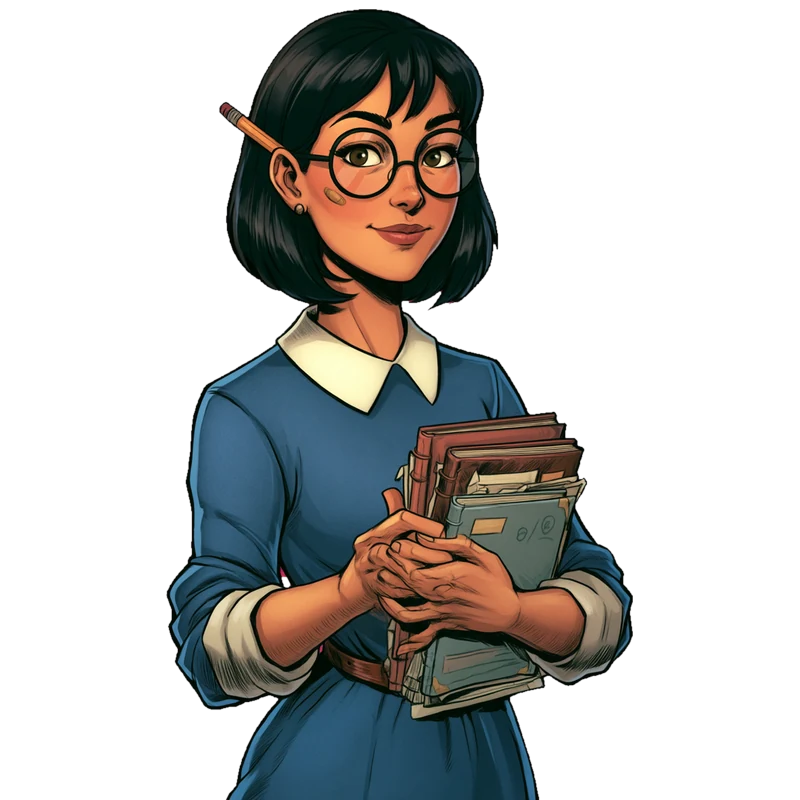
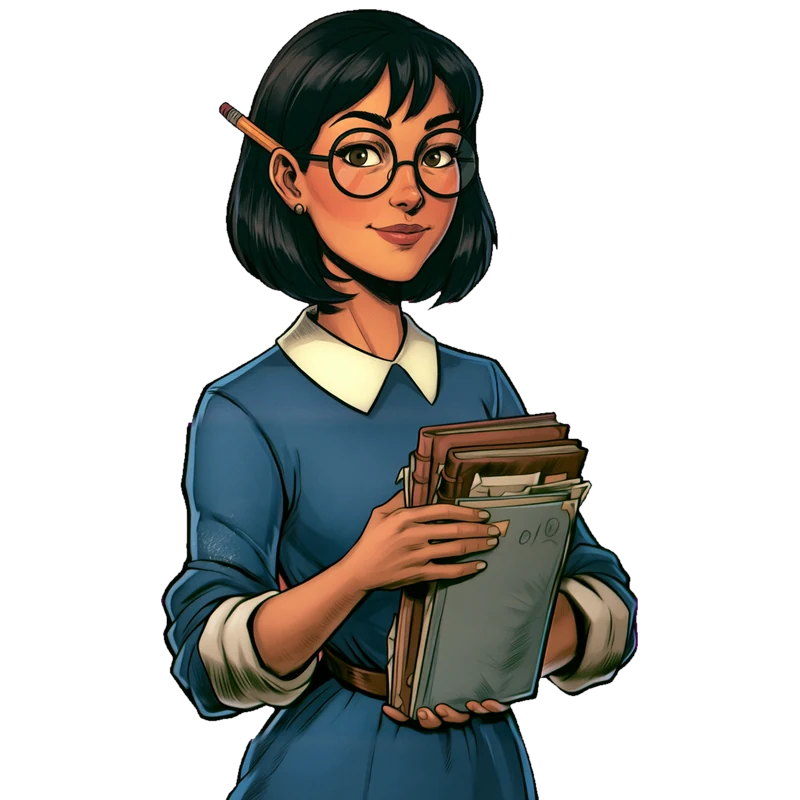
White Rabbit Key: Hana and Lola get proper hands
Hana's and Lola's portraits are the pictures painted elsewhere (imports/codex), and their hands were a tangle:
Hana's fingers interlaced on the exercise books, Lola's shaker hand had no clear thumb. Both are repainted there
now, and fitted back into the originals:

- Hana: one hand flat on the top book, the other under the stack, fingertips showing. Her face is the original
  one, without the plaster on her cheek that made the pencil seem to run on into it; the pencil sits behind her
  ear. The talking and blinking frames are the original ones. The repaint came out yellower than the rest of
  her, so its colours are brought back to the original's.
- Lola: the shaker held round its middle, the other arm resting across her waist. Everything above her
  shoulders, the talking mouth and the blink are the original's; the repainted part is brought back to the
  original's colours, and a few loops of her curls that still held pink background are cleared.

The portrait prompt now asks for simple grips with one thumb and four fingers per hand, never interlaced, and
Hana's description matches her new picture. up bust --from <folder> <names> brings pictures painted elsewhere
in and names them correctly in its report.

diff --git a/assets/i18n/zh/hud.js b/assets/i18n/zh/hud.js
@@ -1,5 +1,6 @@
 /* Simplified Chinese for this page. Keys are the English text; {n} {h} … are placeholders. */
 TauI18n.add({ strings: {
+  "White Rabbit Key: Hana’s and Lola’s portraits have proper hands now. Hana holds her exercise books against her side with one hand flat on top, and her pencil sits behind her ear instead of seeming to run on into her cheek. Lola holds her cocktail shaker in one hand and rests the other arm across her waist.": "白兔岛：Hana 和 Lola 的画像终于有了像样的手。Hana 把练习本抱在身侧，一只手平放在最上面那本上，铅笔也稳稳夹在耳后，不再像是一直戳进脸颊里。Lola 一只手握着调酒壶，另一只手臂搭在腰间。",
   "White Rabbit Key: the islanders talk about the cruise ships now, from three days before a ship comes until the evening it leaves, and each of them sees the ships their own way. Rico announces the ships on Radio Coco, and islanders phone in about them.": "白兔岛：岛民们现在会聊起游轮了，从船到港前三天一直聊到它离港的那个晚上，而且每个人对这些船都有自己的看法。Rico 在 Radio Coco 上预告船期，岛民们也会打电话进来聊这些船。",
   "White Rabbit Key: the cruise ships are painted now, like the island. They come in bow first, turn round at anchor and leave with a wake.": "白兔岛：游轮现在也像岛屿一样采用手绘风格。它们船首向前驶来，在锚地转向，离开时留下航迹。",
   "Proposals page: click any event in “Coming up” for a detail sheet, the same as for a proposal: what happens, why it matters, its timeline with block, time and countdown, where to watch it. The page now updates by itself when a block or vote arrives (every few seconds in the simulation), new news flashes once, and “Rules over time” draws the next events of the simulation’s programme ahead of “now” as dashed ghosts, so you see a change coming before it lands.": "提案页面：点击“即将发生”中的任一事件即可打开详情，与提案相同：会发生什么、为何重要、包含区块、时间和倒计时的时间线，以及在哪里观看。页面现在会在新区块或投票到达时自动更新（模拟中每隔几秒），新消息会闪烁一次，“规则随时间变化”会在“现在”之后用虚线预示模拟日程中的下一个事件，让你在变更发生前就看到它。",

diff --git a/assets/i18n/ja/hud.js b/assets/i18n/ja/hud.js
@@ -1,5 +1,6 @@
 /* Japanese for this page. Keys are the English text; {n} {h} … are placeholders. */
 TauI18n.add({ strings: {
+  "White Rabbit Key: Hana’s and Lola’s portraits have proper hands now. Hana holds her exercise books against her side with one hand flat on top, and her pencil sits behind her ear instead of seeming to run on into her cheek. Lola holds her cocktail shaker in one hand and rests the other arm across her waist.": "ホワイトラビットキー：Hana と Lola の肖像画の手がきちんと描き直されました。Hana は練習帳を脇に抱え、一番上の一冊に片手をそっと置いています。鉛筆は耳の後ろに挟まり、もう頬に突き刺さっているようには見えません。Lola は片手でカクテルシェーカーを持ち、もう片方の腕を腰の前に添えています。",
   "White Rabbit Key: the islanders talk about the cruise ships now, from three days before a ship comes until the evening it leaves, and each of them sees the ships their own way. Rico announces the ships on Radio Coco, and islanders phone in about them.": "ホワイトラビットキー：島の人たちがクルーズ船の話をするようになりました。船が来る三日前から出ていく日の夜まで、それぞれが自分なりの見方で船を語ります。リコは Radio Coco で船を告知し、島民も電話で船の話をしに来ます。",
   "White Rabbit Key: the cruise ships are painted now, like the island. They come in bow first, turn round at anchor and leave with a wake.": "ホワイトラビットキー：クルーズ船も島と同じ手描きの姿になりました。船首を前にして入港し、停泊地で向きを変え、航跡を残して出港します。",
   "# active consensus spec · revision {x1}": "# 有効なコンセンサス仕様 · リビジョン {x1}",

diff --git a/infra/rabbit-art/paint.py b/infra/rabbit-art/paint.py
@@ -667,7 +667,7 @@ BUSTS = {
     "marisol": 'Marisol: runs the Parasol Café on the terrace. Thirties, sturdy. Warm brown skin, black hair in a messy bun stuck through with a pencil, a red scarf, sun-crinkled eyes. Teal shirt with rolled sleeves, a striped apron, a coffee pot in one hand. Direct, friendly grin. Ex-fisherwoman: talks straight, pours strong coffee, still mends nets between orders.',
     "tobias": "Tobias: harbour master at the pier. Sixties, round and proud. Fair, pink-cheeked skin, grey hair parted with a ruler, bushy grey sideburns. Navy captain's cap with gold braid (too big for him), a crisp white uniform shirt with polished brass buttons and a whistle on a chain, a clipboard. Chest puffed out, self-important smile. Loves a ceremony, a rule and a ribbon to cut.",
     "baako": 'Baako: coconut farmer at the Coconut Works. Forties, big and strong. Deep brown skin, short black hair, a short beard, laugh lines. Frayed straw hat pushed back, mustard-yellow work shirt, a coconut in one big hand, a machete-free tool belt with twine. Broad easy smile. Relaxed, generous, measures time in harvests.',
-    "hana": 'Hana: the schoolteacher. Thirties, slim. Golden-tan skin, a sharp black bob, big round glasses, a pencil behind her ear, a chalk smudge on her cheek. Blue blouse with a white collar, a stack of exercise books. Calm, attentive, one eyebrow ready for a question. Patient, precise, can silence a room by lowering her glasses.',
+    "hana": 'Hana: the schoolteacher. Thirties, slim. Golden-tan skin, a sharp black bob, big round glasses, a yellow pencil tucked behind her ear (only its end shows, above the ear). Blue blouse with a white collar, a little chalk dust on one sleeve, a stack of exercise books held against her side, one hand flat on the top book. Calm, attentive, one eyebrow ready for a question. Patient, precise, can silence a room by lowering her glasses.',
     "rico": 'Rico: host of Radio Coco, the island station. Mid thirties, lanky and always moving. Warm brown skin, a huge round afro, a gap-toothed laugh, eyebrows up like he just heard the best news. Big padded studio headphones round his neck with one cable dangling, a microphone held up like a trophy. Loud coral-pink shirt with a white palm-leaf print, unbuttoned at the collar, a shell necklace. Mid-sentence, mouth open, eyes sparkling. The most extroverted person on the island: talks to everyone as if they were live on air.',
     "lola": 'Lola: runs Bar La Ola on the beach. About thirty, strong shoulders. Brown skin, big dark-red curls held back with a bright yellow hibiscus flower, gold hoop earrings, a beauty mark. Cream off-shoulder blouse, a striped bar towel over one shoulder, a cocktail shaker in hand. One eyebrow raised, a teasing half-smile. Knows every secret on the island and tells none of them for free.',
     "sam": "Old Sam: Old Sam, the lighthouse keeper. Seventies, broad and slow. Deep-tanned, wrinkled skin, bald head, a full bushy white beard, kind sleepy eyes under heavy brows. Dark navy knitted fisherman's jumper with a darned elbow, a brass pocket telescope on a cord, an old pipe (unlit) in the corner of his mouth. Gentle, tired smile. Says little, has seen every storm, keeps the light on for everyone.",
@@ -683,12 +683,14 @@ BUSTS = {
 }
 BUST = ("Paint one character for this game, in exactly the style of the picture: its ink line, painted colours, texture "
         "and warm light, as if painted by the same hand for the same adventure game. {who}. A half figure: from the top of "
-        "the head, with a little space above the hair or hat, down to the hips; both arms and hands in the picture, holding "
-        "their things; facing us, turned very slightly, standing upright in the middle. The body runs on out of the bottom "
-        "edge, which cuts straight across the hips: no rounded or faded bottom, no oval, no vignette. Nothing else in the "
-        "picture, on a plain flat {key} ({hex}) background with no shadow, no floor and no frame; no {key} in the "
-        "person's own colours. Mouth closed in a natural expression. Characterful and funny like a classic adventure game "
-        "cast, with real emotion, but never a caricature of anyone's ethnicity, body or age. No text.")
+        "the head, with a little space above the hair or hat, down to the hips; both arms and hands in the picture, "
+        "holding their things in simple grips that read at a glance: each hand one thumb and four fingers, never "
+        "interlaced, the two hands never on top of each other; facing us, turned very slightly, standing upright in the "
+        "middle. The body runs on out of the bottom edge, which cuts straight across the hips: no rounded or faded bottom, "
+        "no oval, no vignette. Nothing else in the picture, on a plain flat {key} ({hex}) background with no shadow, no "
+        "floor and no frame; no {key} in the person's own colours. Mouth closed in a natural expression. Characterful and "
+        "funny like a classic adventure game cast, with real emotion, but never a caricature of anyone's ethnicity, body "
+        "or age. No text.")
 # the flat colour a portrait is painted on, to be cut away again: magenta, or green for whoever wears pink or coral. A
 # painter's softened magenta comes so close to a pink shirt that the cut took patches out of Salado's (3.11)
 ON_GREEN = {"salado", "rico"}
